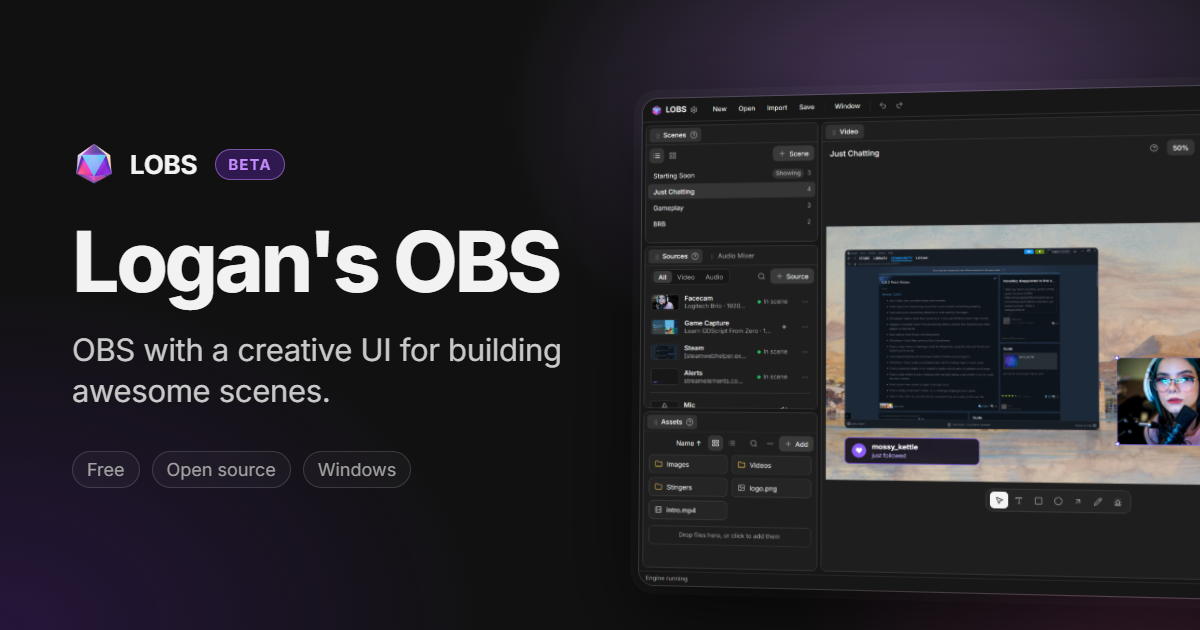
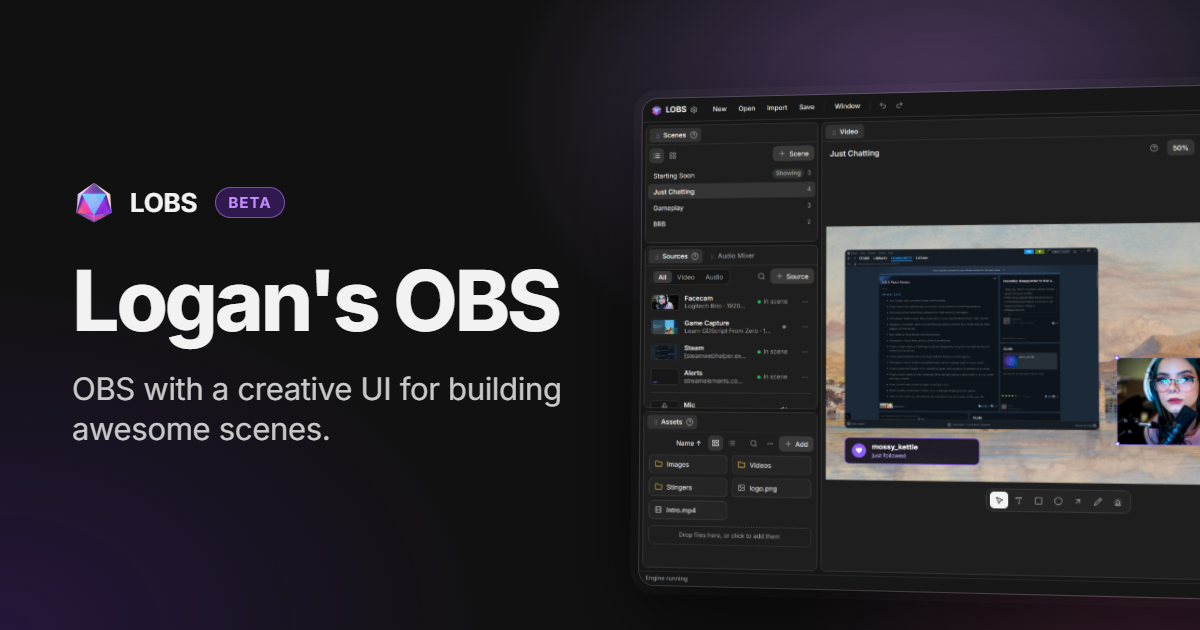
Link preview card: just the name and the line, no labels

Changed region(s): [[0.0617, 0.2111, 0.4933, 0.754]]

diff --git a/web/og.html b/web/og.html
@@ -28,8 +28,6 @@
         font-size: 15px; letter-spacing: 0.08em; font-weight: 650; text-transform: uppercase;
       }
       p { margin: 26px 0 0; font-size: 31px; line-height: 1.3; color: #c9c9c9; letter-spacing: -0.01em; max-width: 500px; }
-      .facts { margin-top: 40px; display: flex; gap: 12px; font-size: 18px; color: #a1a1a1; }
-      .facts span { padding: 7px 14px; border: 1px solid rgba(255, 255, 255, 0.14); border-radius: 999px; background: rgba(255, 255, 255, 0.03); }
       .shot {
         position: absolute; left: 640px; top: 96px; width: 820px; border-radius: 16px; overflow: hidden;
         border: 1px solid rgba(255, 255, 255, 0.16);
@@ -45,7 +43,6 @@
       <div class="brand"><img src="/brand/lobs-gem-256.png" alt="" />LOBS<span class="badge">Beta</span></div>
       <h1>Logan's OBS</h1>
       <p>OBS with a creative UI for building awesome scenes.</p>
-      <div class="facts"><span>Free</span><span>Open source</span><span>Windows</span></div>
     </div>
   </body>
 </html>
